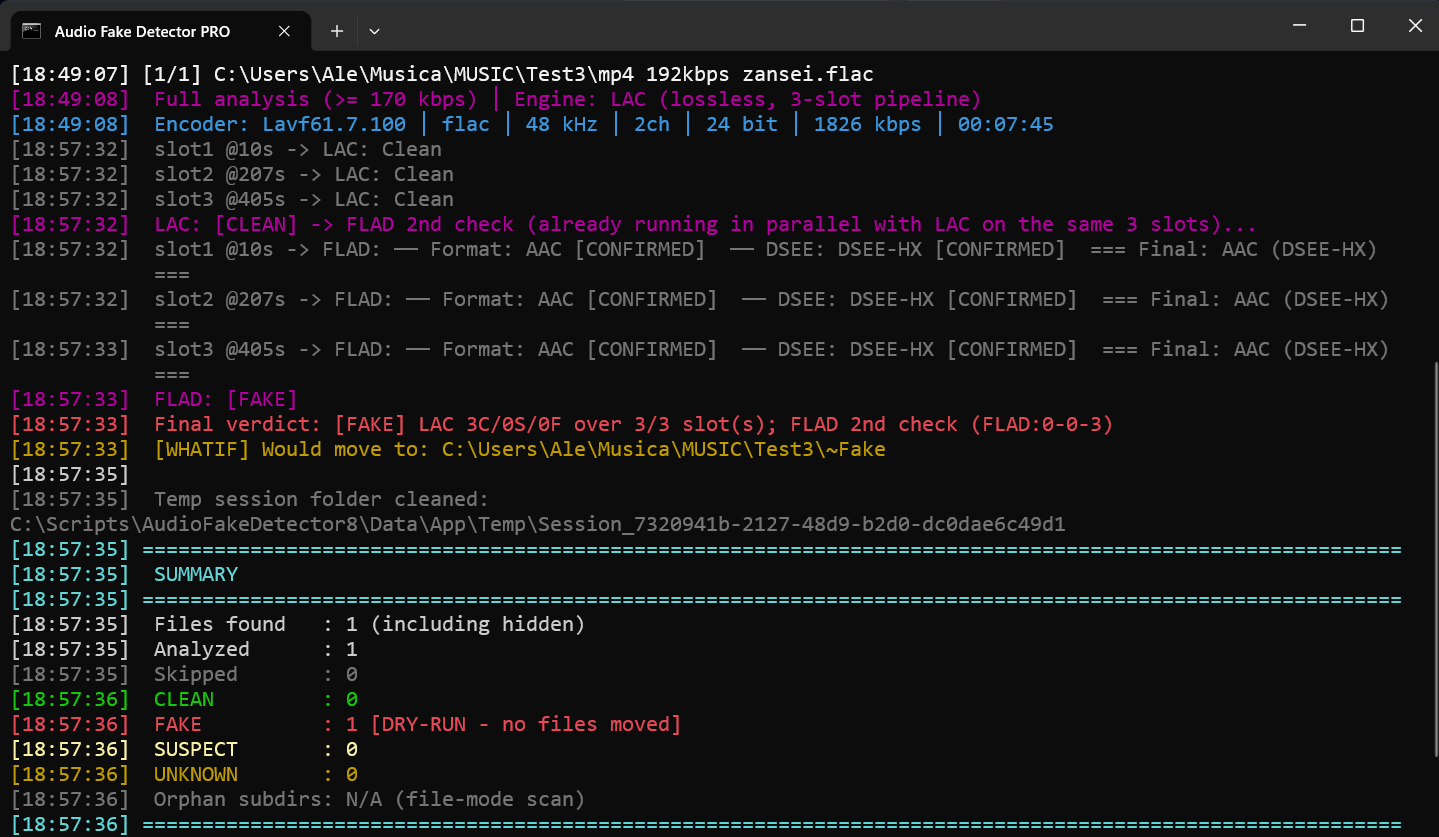
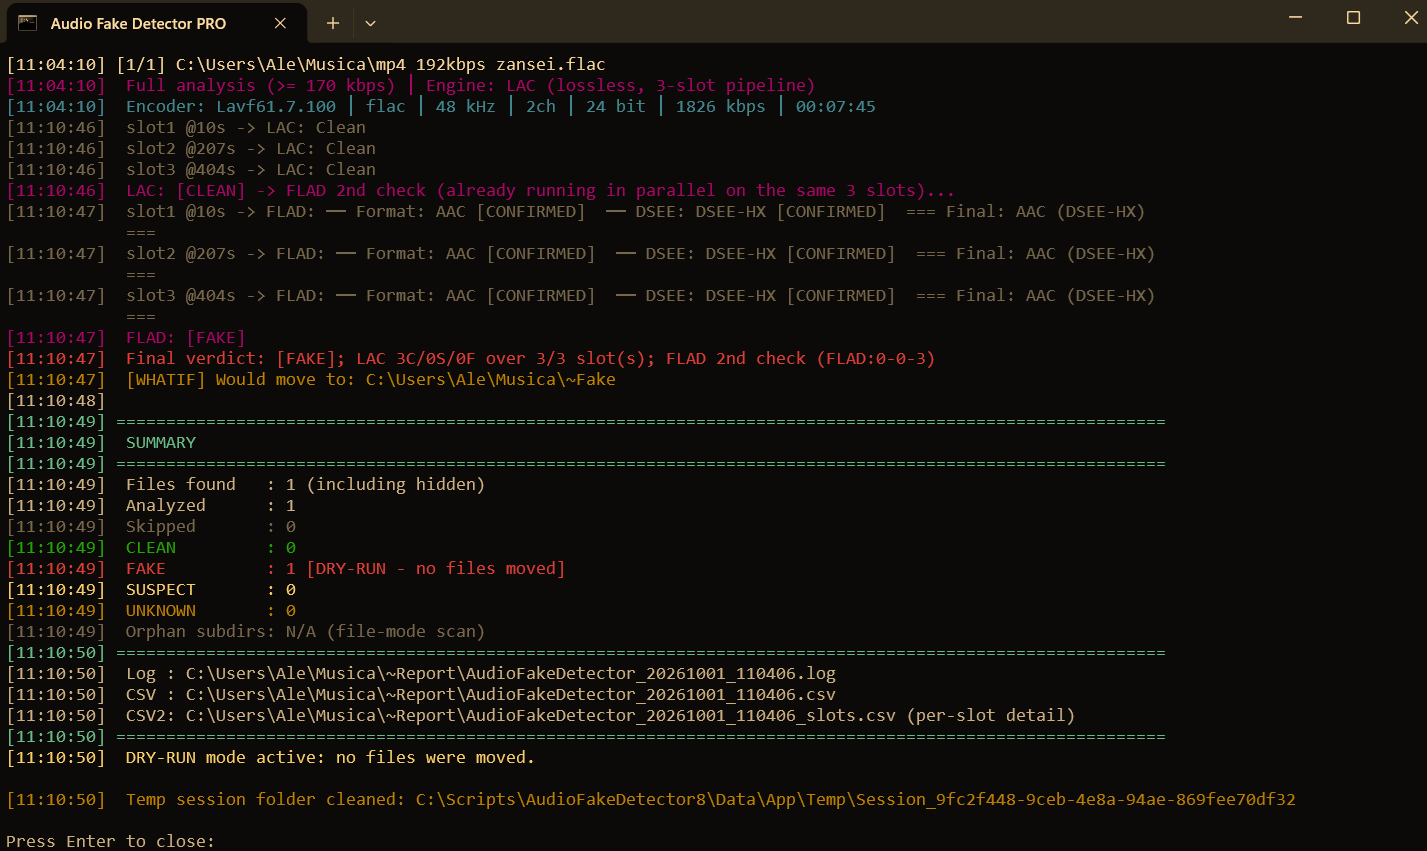
Add files via upload

diff --git a/README.md b/README.md
@@ -232,9 +232,9 @@ winget install Microsoft.DotNet.Runtime.8
 Source: <sub><img src="https://images.icon-icons.com/1011/PNG/512/Google_Drive_icon-icons.com_75713.png" width="18" height="18" alt="Google Drive"></sub> Google Drive
 
 * AudioFakeDetector8.7z/zip (x64) (PowerShell 5.1 scripts: Standard + Portable)  
-  📄 <a href="https://bit.ly/4hu7ucW">Preview</a> 📥 <a href="https://bit.ly/4fS44iY">7-Zip</a> (34.5 MB) 📥 <a href="https://bit.ly/45oOWU9">Zip</a> (60.0 MB)  
+  📄 <a href="https://bit.ly/4hu7ucW">Preview</a> 📥 <a href="https://bit.ly/4fS44iY">7-Zip</a> (34.5 MB) 📥 <a href="https://bit.ly/45oOWU9">Zip</a> (59.9 MB)  
 * AudioFakeDetector8_slim.zip (Portable+Standard editions, web downloads)  
-  👁 <a href="https://bit.ly/4fQq38N">Preview</a> 📥 <a href="https://bit.ly/3RGAALQ">Zip</a> (2.21 MB)
+  👁 <a href="https://bit.ly/4fQq38N">Preview</a> 📥 <a href="https://bit.ly/3RGAALQ">Zip</a> (2.19 MB)
   * **Note:**
     * Portable only: delete `AudioFakeDetector_v8.x.ps1` from archive  
     * Standard only: delete `AudioFakeDetector_v8.x_Portable.ps1` from archive
